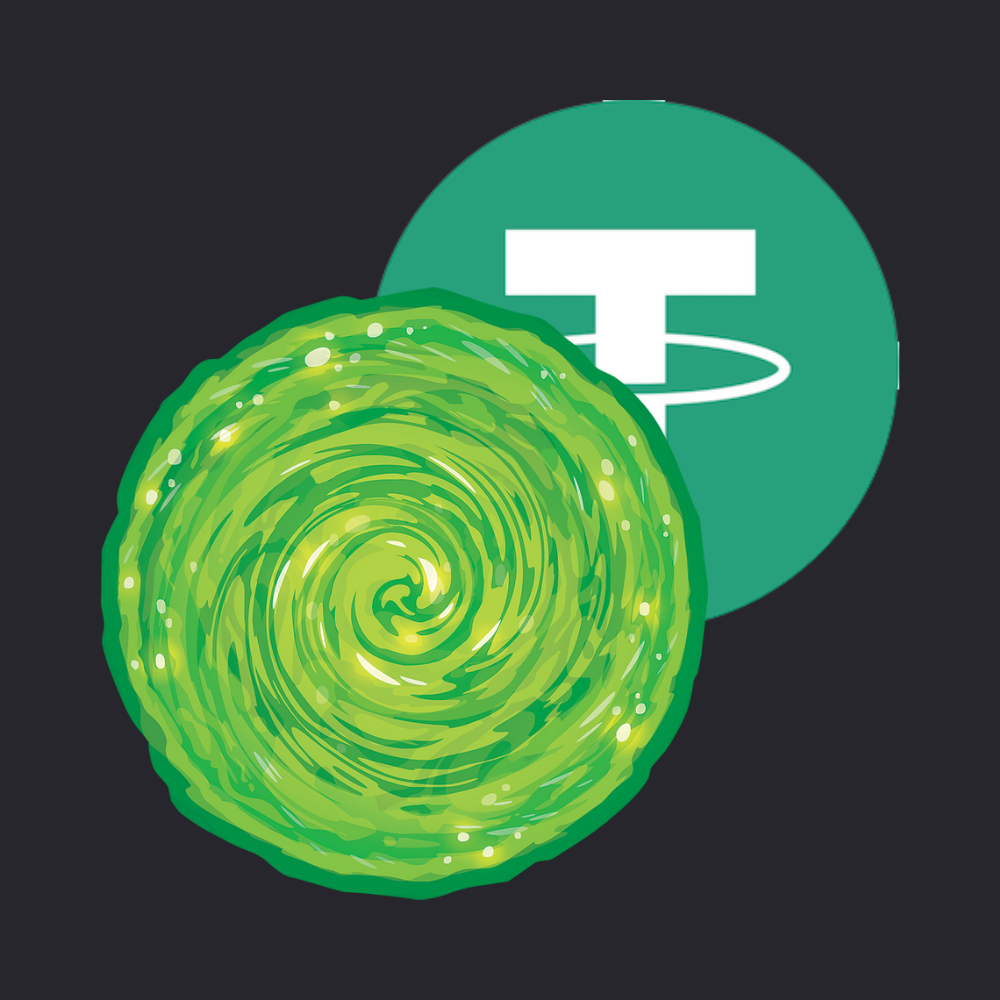
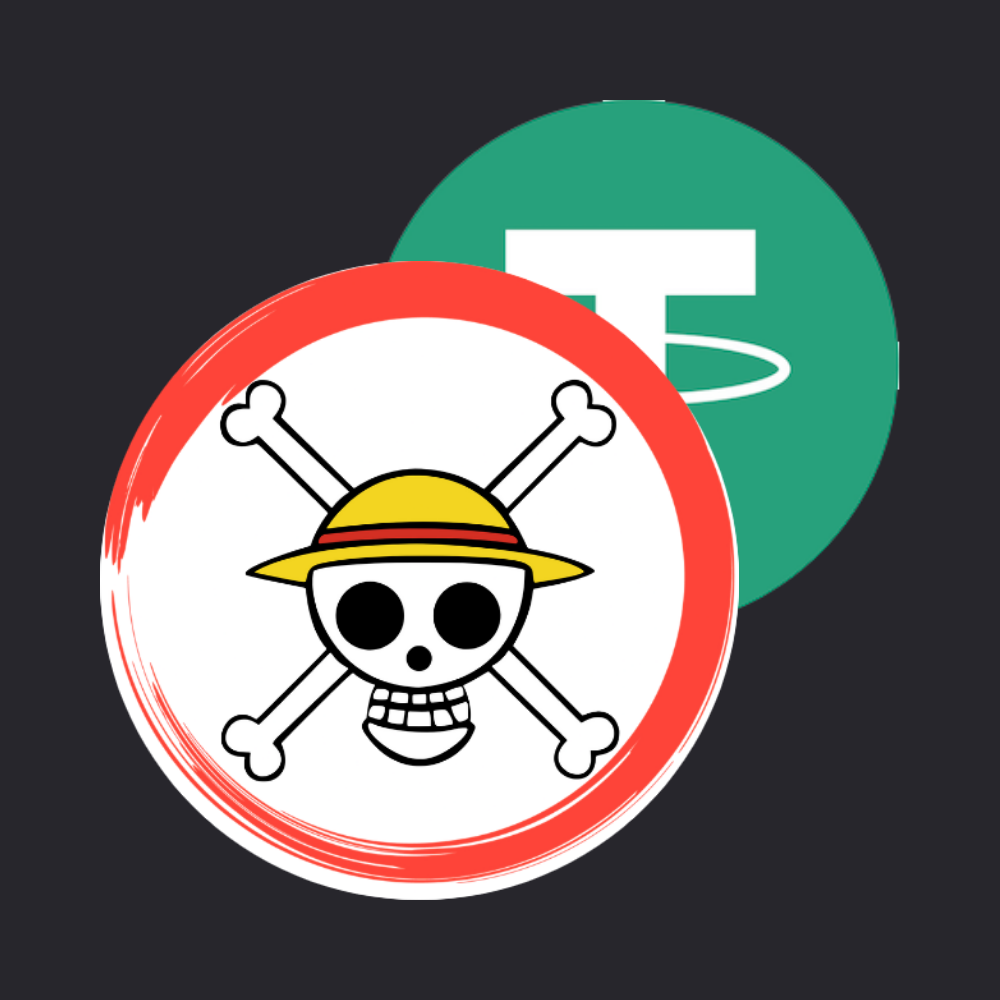
2

diff --git a/src/views/Home/components/FarmStakingCard.tsx b/src/views/Home/components/FarmStakingCard.tsx
@@ -73,12 +73,12 @@ const FarmedStakingCard = () => {
         </Heading>
         <CardImage src="/images/egg/ee.png" alt="cake logo" width={64} height={64} />
         <Block>
-          <Label>{TranslateString(544, 'WAIFU to Harvest')}</Label>
+          <Label>{TranslateString(544, 'LUFFY to Harvest')}</Label>
           <CakeHarvestBalance earningsSum={earningsSum}/>
           <Label>~${(eggPrice * earningsSum).toFixed(2)}</Label>
         </Block>
         <Block>
-          <Label>{TranslateString(546, 'WAIFU in Wallet')}</Label>
+          <Label>{TranslateString(546, 'LUFFY in Wallet')}</Label>
           <CakeWalletBalance cakeBalance={cakeBalance} />
           <Label>~${(eggPrice * cakeBalance).toFixed(2)}</Label>
         </Block>
@@ -91,7 +91,7 @@ const FarmedStakingCard = () => {
               fullWidth
             >
               {pendingTx
-                ? TranslateString(548, 'Collecting WAIFU')
+                ? TranslateString(548, 'Collecting LUFFY')
                 : TranslateString(999, `Harvest all (${balancesWithValue.length})`)}
             </Button>
           ) : (

diff --git a/src/config/constants/farms.ts b/src/config/constants/farms.ts
@@ -5,12 +5,12 @@ const farms: FarmConfig[] = [
   {
     pid: 0,
     risk: 5,
-    lpSymbol: 'WAIFU-fUSDT',
+    lpSymbol: 'LUFFY-fUSDT',
     lpAddresses: {
       250: '0xC4045e90f65dD0405aC6CeAb18Eb37C29A1Bb990',
       97: '',
     },
-    tokenSymbol: 'WAIFU',
+    tokenSymbol: 'LUFFY',
     tokenAddresses: {
       250: '0xa99a2A440494299476f4ceB1696433c66c0d7358',
       97: '',
@@ -21,7 +21,7 @@ const farms: FarmConfig[] = [
   {
     pid: 1,
     risk: 5,
-    lpSymbol: 'WAIFU-WFTM',
+    lpSymbol: 'LUFFY-WFTM',
     lpAddresses: {
       250: '0x1A07372a4B17040BDeeCD416249C1171974199da',
       97: '',
@@ -135,12 +135,12 @@ const farms: FarmConfig[] = [
     pid: 8,
     risk: 5,
     isTokenOnly: true,
-    lpSymbol: 'WAIFU',
+    lpSymbol: 'LUFFY',
     lpAddresses: {
       250: '0xC4045e90f65dD0405aC6CeAb18Eb37C29A1Bb990',
       97: '', // COAL-USDT LP
     },
-    tokenSymbol: 'WAIFU',
+    tokenSymbol: 'LUFFY',
     tokenAddresses: {
       250: '0xa99a2A440494299476f4ceB1696433c66c0d7358',
       97: '',

diff --git a/src/views/Farms/components/FarmCard/FarmCard.tsx b/src/views/Farms/components/FarmCard/FarmCard.tsx
@@ -117,7 +117,7 @@ const FarmCard: React.FC<FarmCardProps> = ({ farm, removed, cakePrice, bnbPrice,
     : '-'
 
   const lpLabel = farm.lpSymbol
-  const earnLabel = 'WAIFU'
+  const earnLabel = 'LUFFY'
   const farmAPY = farm.apy && farm.apy.times(new BigNumber(100)).toNumber().toLocaleString(undefined, {
     minimumFractionDigits: 2,
     maximumFractionDigits: 2,
@@ -127,7 +127,7 @@ const FarmCard: React.FC<FarmCardProps> = ({ farm, removed, cakePrice, bnbPrice,
 
   return (
     <FCard>
-      {farm.tokenSymbol === 'WAIFU' && <StyledCardAccent />}
+      {farm.tokenSymbol === 'LUFFY' && <StyledCardAccent />}
       <CardHeading
         lpLabel={lpLabel}
         multiplier={farm.multiplier}

diff --git a/src/views/Farms/Farms.tsx b/src/views/Farms/Farms.tsx
@@ -94,9 +94,9 @@ const Farms: React.FC<FarmsProps> = (farmsProps) => {
       <Heading as="h1" size="lg" color="primary" mb="50px" style={{ textAlign: 'center' }}>
         {
           tokenMode ?
-            TranslateString(10002, 'Stake tokens to earn WAIFU')
+            TranslateString(10002, 'Stake tokens to earn LUFFY')
             :
-          TranslateString(320, 'Stake LP tokens to earn WAIFU')
+          TranslateString(320, 'Stake LP tokens to earn LUFFY')
         }
       </Heading>
       <Heading as="h2" color="secondary" mb="50px" style={{ textAlign: 'center' }}>

diff --git a/src/views/Farms/components/FarmCard/CardActionsContainer.tsx b/src/views/Farms/components/FarmCard/CardActionsContainer.tsx
@@ -69,7 +69,7 @@ const CardActions: React.FC<FarmCardActionsProps> = ({ farm, ethereum, account }
       <Flex>
         <Text bold textTransform="uppercase" color="secondary" fontSize="12px" pr="3px">
           {/* TODO: Is there a way to get a dynamic value here from useFarmFromSymbol? */}
-          WAIFU
+          LUFFY
         </Text>
         <Text bold textTransform="uppercase" color="textSubtle" fontSize="12px">
           {TranslateString(999, 'Earned')}

diff --git a/src/views/Home/components/CakeStats.tsx b/src/views/Home/components/CakeStats.tsx
@@ -60,7 +60,7 @@ const CakeStats = () => {
           {cakeSupply && <CardValue fontSize="14px" value={cakeSupply} decimals={0} />}
         </Row>
         <Row>
-          <Text fontSize="14px">{TranslateString(540, 'New WAIFU/block')}</Text>
+          <Text fontSize="14px">{TranslateString(540, 'New LUFFY/block')}</Text>
           <Text bold fontSize="14px">{eggPerBlock}</Text>
         </Row>
       </CardBody>

diff --git a/src/views/Farms/components/FarmCard/ApyCalculatorModal.tsx b/src/views/Farms/components/FarmCard/ApyCalculatorModal.tsx
@@ -67,7 +67,7 @@ const ApyCalculatorModal: React.FC<ApyCalculatorModalProps> = ({
         </GridItem>
         <GridItem>
           <Text fontSize="12px" bold color="textSubtle" textTransform="uppercase" mb="20px">
-            {TranslateString(999, 'WAIFU per $1000')}
+            {TranslateString(999, 'LUFFY per $1000')}
           </Text>
         </GridItem>
         {/* 1 day row */}

diff --git a/src/state/pools/fetchPoolsUser.ts b/src/state/pools/fetchPoolsUser.ts
@@ -93,7 +93,7 @@ export const fetchUserPendingRewards = async (account) => {
   )
 
   // Cake / Cake pool
-  const pendingReward = await masterChefContract.methods.pendingWaifu('0', account).call()
+  const pendingReward = await masterChefContract.methods.pendingLuffy('0', account).call()
 
   return { ...pendingRewards, 0: new BigNumber(pendingReward).toJSON() }
 }

diff --git a/src/components/Menu/config.ts b/src/components/Menu/config.ts
@@ -73,7 +73,7 @@ const config: MenuEntry[] = [
       },
       {
         label: 'Docs',
-        href: 'https://gitbook.animeswapdefi.com/animeswapdefi.com/animeswapdefi-projects/waifuswapdefi',
+        href: 'https://gitbook.animeswapdefi.com/animeswapdefi.com/animeswapdefi-projects/luffyswapdefi',
       },
       {
         label: 'Blog',

diff --git a/src/hooks/useFarmsWithBalance.ts b/src/hooks/useFarmsWithBalance.ts
@@ -21,7 +21,7 @@ const useFarmsWithBalance = () => {
     const fetchBalances = async () => {
       const calls = farmsConfig.map((farm) => ({
         address: getMasterChefAddress(),
-        name: 'pendingWaifu',
+        name: 'pendingLuffy',
         params: [farm.pid, account],
       }))
 

diff --git a/src/hooks/useAllEarnings.ts b/src/hooks/useAllEarnings.ts
@@ -15,7 +15,7 @@ const useAllEarnings = () => {
     const fetchAllBalances = async () => {
       const calls = farmsConfig.map((farm) => ({
         address: getMasterChefAddress(),
-        name: 'pendingWaifu',
+        name: 'pendingLuffy',
         params: [farm.pid, account],
       }))
 

diff --git a/src/state/farms/fetchFarmUser.ts b/src/state/farms/fetchFarmUser.ts
@@ -63,7 +63,7 @@ export const fetchFarmUserEarnings = async (account: string) => {
   const calls = farmsConfig.map((farm) => {
     return {
       address: masterChefAdress,
-      name: 'pendingWaifu',
+      name: 'pendingLuffy',
       params: [farm.pid, account],
     }
   })
